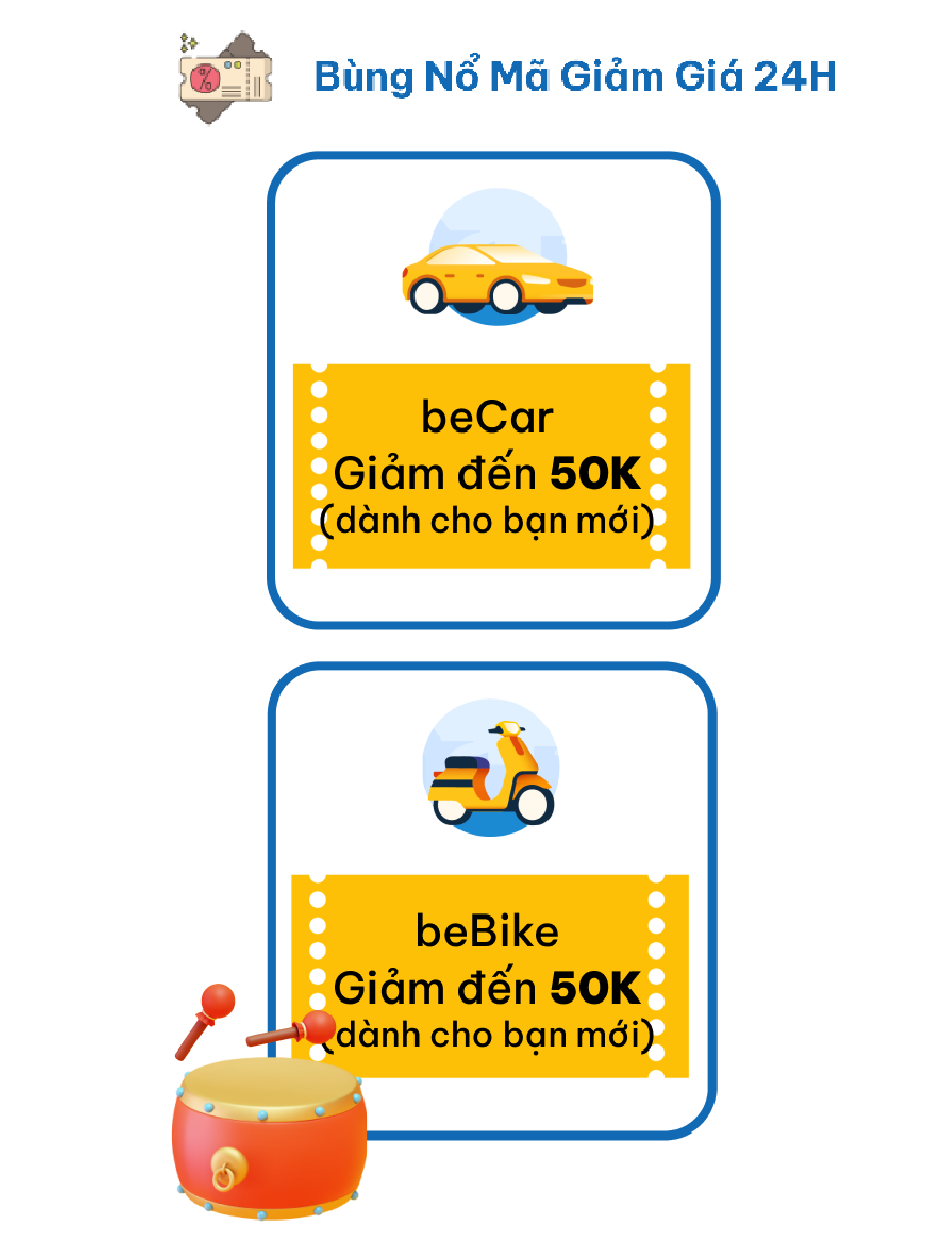
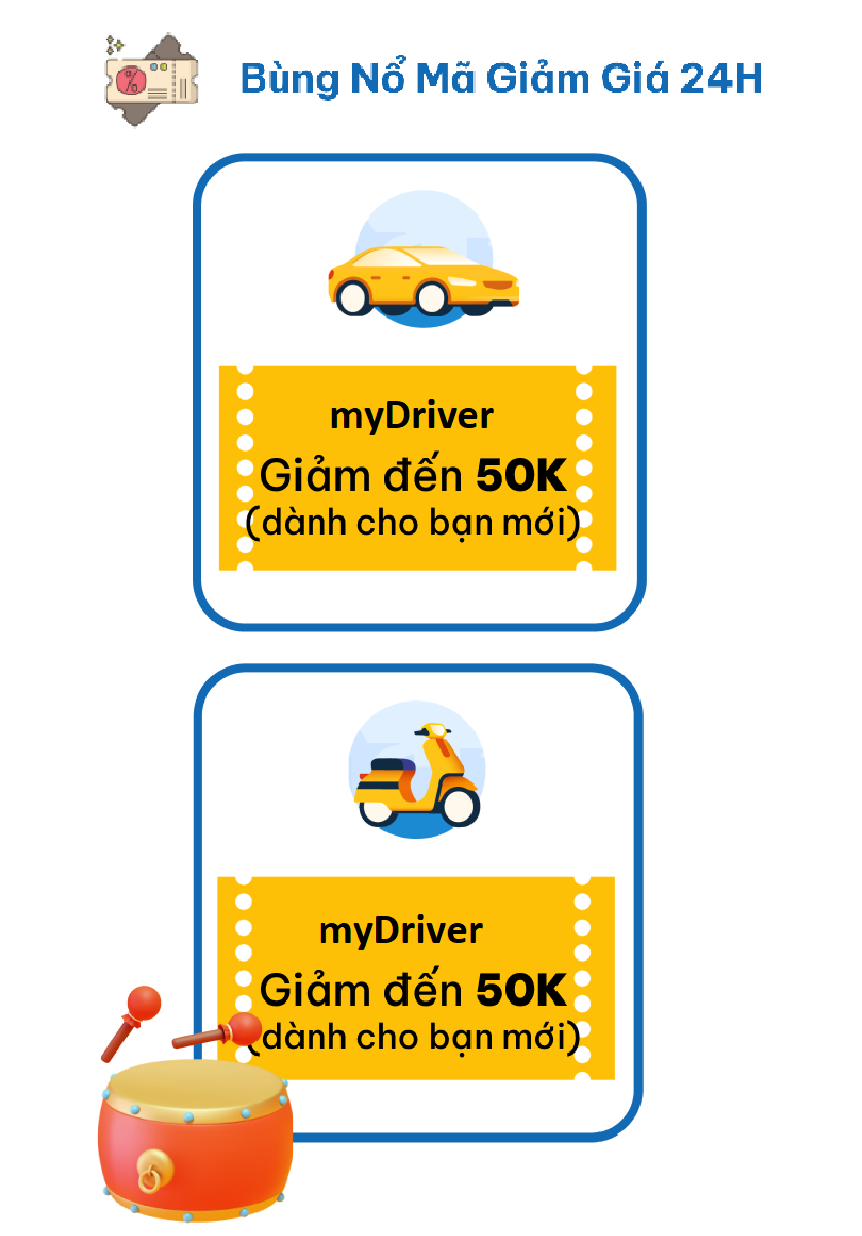
voucher screen

Changed region(s): [[0.0905, 0.0307, 0.9049, 1.0]]

diff --git a/mobile/src/screens/Home/pages/Reward/Reward.js b/mobile/src/screens/Home/pages/Reward/Reward.js
@@ -1,11 +1,69 @@
-import { Text, View } from "react-native"
-
+import { ScrollView, Text, View, Pressable, Image, useWindowDimensions } from "react-native"
+import Header from "../../../../components/Header";
+import { useTranslation } from "react-i18next";
+import { CommonActions, StackActions, useNavigation } from "@react-navigation/native";
+import className from "./className";
+import ButtonRow from "./ButtonRow/ButtonRow";
+import { FontAwesomeIcon } from "@fortawesome/react-native-fontawesome";
+import { faCar } from "@fortawesome/free-solid-svg-icons";
+import { bevoucher1 } from "../../../../components/Image";
+import { bevoucher2 } from "../../../../components/Image";
 const Reward = () => {
-
+    const { t } = useTranslation();
+    const navigation = useNavigation();
+    const size = useWindowDimensions();
+    const widthv = size.width;
+    const heightv = size.height;
     return (
-        <View>
-            <Text>Reward</Text>
+        <View className={className.container}>
+            <View className={className.wrapper}>
+                <View className={className.center}>
+                    <Text className={className.title}>{t("Reward")}</Text>
+                </View>
+            </View>
+            <ScrollView>
+                <Pressable className={className.button}>
+
+                    <Image
+                        className={className.imageButton}
+                        source={bevoucher1}
+                        style={{
+                            width:widthv,
+                            resizeMode: 'contain',
+                            height:200
+                        }}
+                    />
+
+                </Pressable>
+                <Pressable className={className.button}>
+
+                    <Image
+                        className={className.imageButton}
+                        source={bevoucher2}
+                        style={{
+                            width: widthv,
+                            resizeMode: 'contain',
+                            height:200
+                        }}
+                    />
+                    <Pressable className={className.button}>
+
+                        <Image
+                            className={className.imageButton}
+                            source={bevoucher1}
+                            style={{
+                                width: widthv,
+                                resizeMode: 'contain',
+                                height: 200
+                            }}
+                        />
+
+                    </Pressable>
+                    
+                </Pressable>
+            </ScrollView>
         </View>
+
     )
 }
 

diff --git a/mobile/src/components/Image/index.js b/mobile/src/components/Image/index.js
@@ -3,11 +3,14 @@ import docker from "../../assets/images/docker.gif";
 import bebanner from "../../assets/images/bebanner.png";
 import bevoucher from "../../assets/images/bevoucher.png";
 import beuseravatar from "../../assets/images/beuseravatar.jpg";
-
+import bevoucher1 from "../../assets/images/myDriverVoucher1.png";
+import bevoucher2 from "../../assets/images/voucherbe2.jpg"
 export {
     flagVietnam,
     docker,
     bebanner,
     bevoucher,
-    beuseravatar
+    beuseravatar,
+    bevoucher1,
+    bevoucher2
 }

diff --git a/mobile/src/screens/Home/pages/Reward/className.js b/mobile/src/screens/Home/pages/Reward/className.js
@@ -1,0 +1,11 @@
+const className = {
+    wrapper: `w-full h-14 border-b border-gray-300`,
+    left: `absolute left-0 top-0 bottom-0 z-[1] items-center justify-center w-14`,
+    center: `flex-1 items-center flex-row pl-5 bg-white `,
+    title: `font-bold text-lg`,
+    right: `absolute right-0 top-0 bottom-0 z-[1] items-center justify-center pr-3`,
+    container: `flex-1 bg-gray-100`,
+    evoucher: `w-full h-30 bg-white`,
+}
+
+export default className
